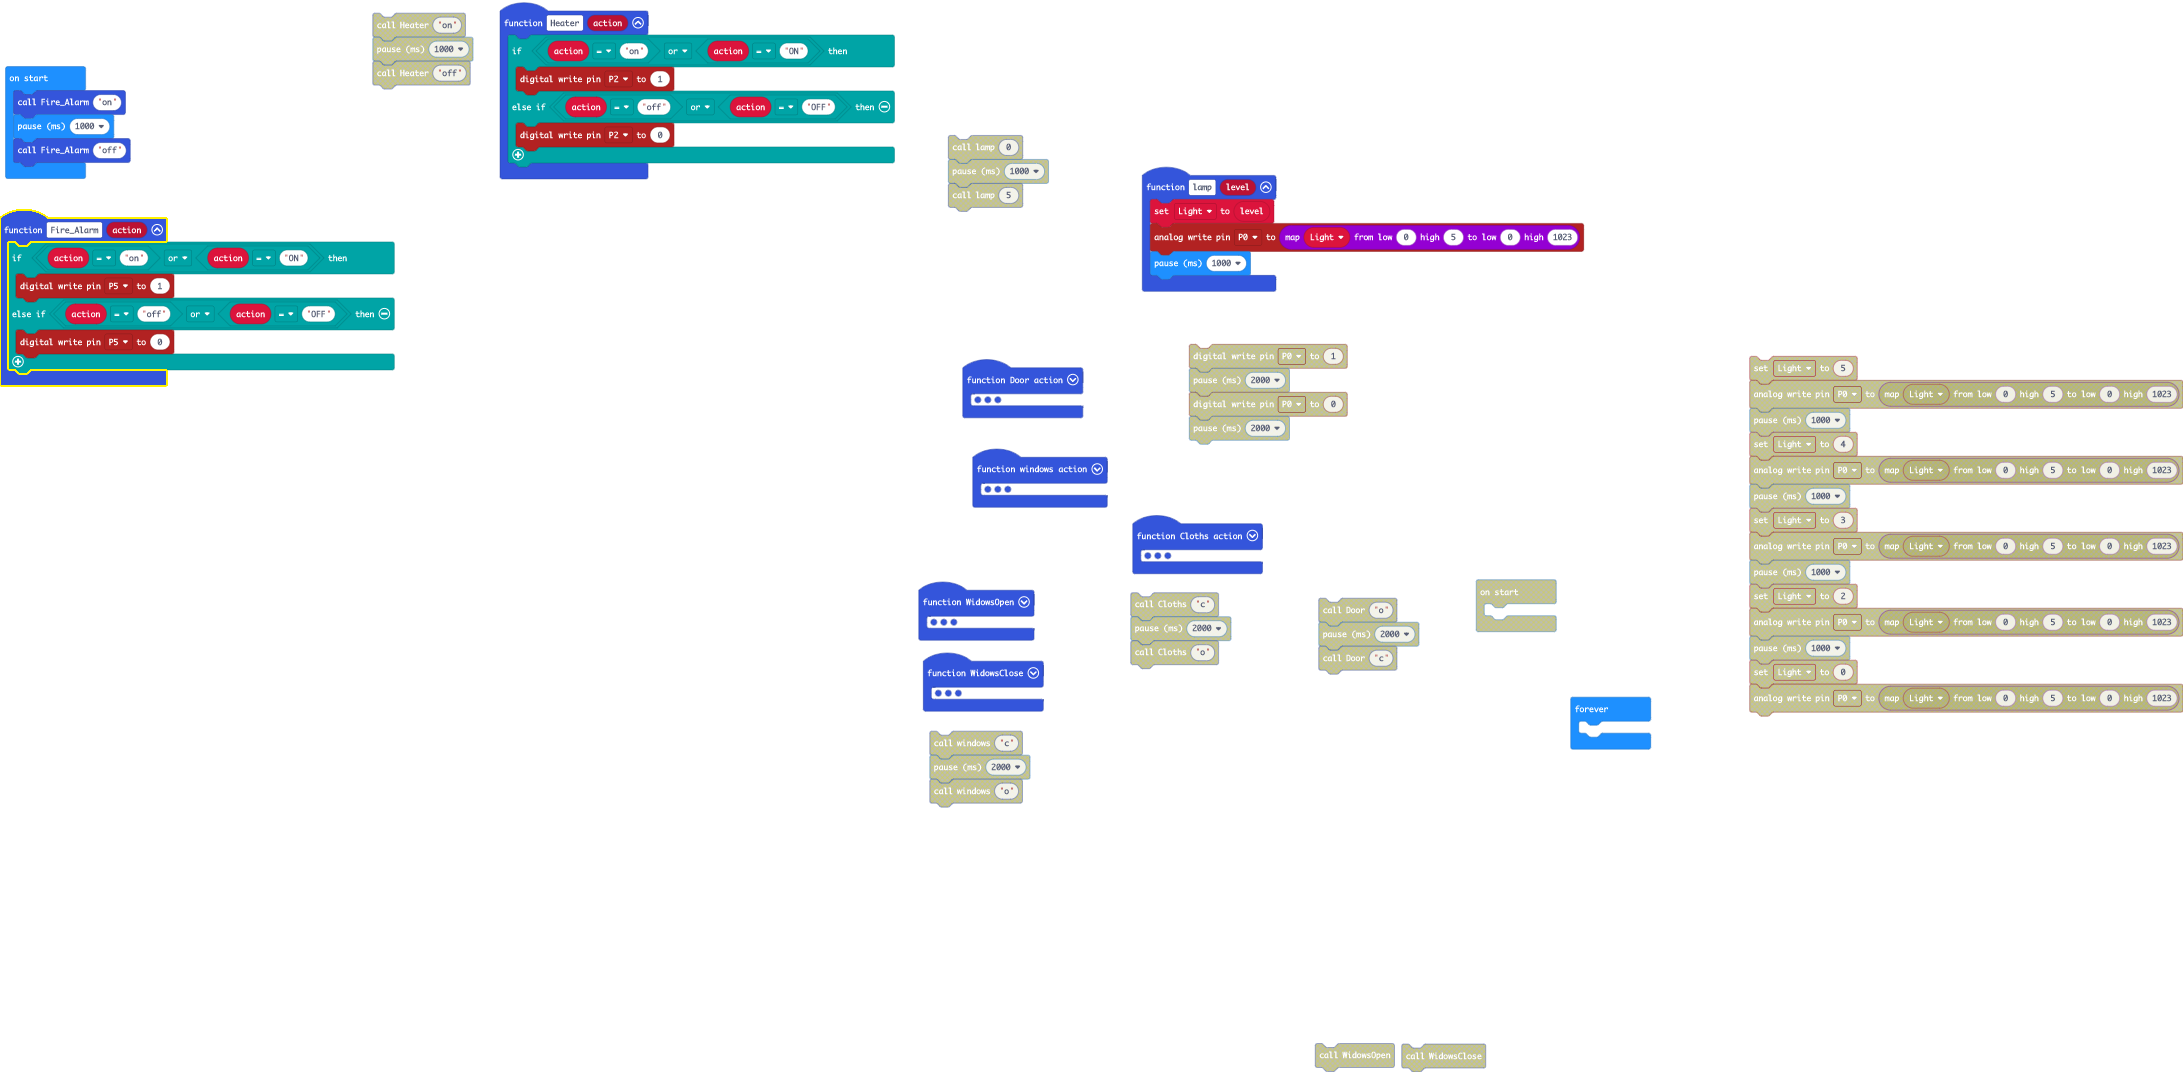
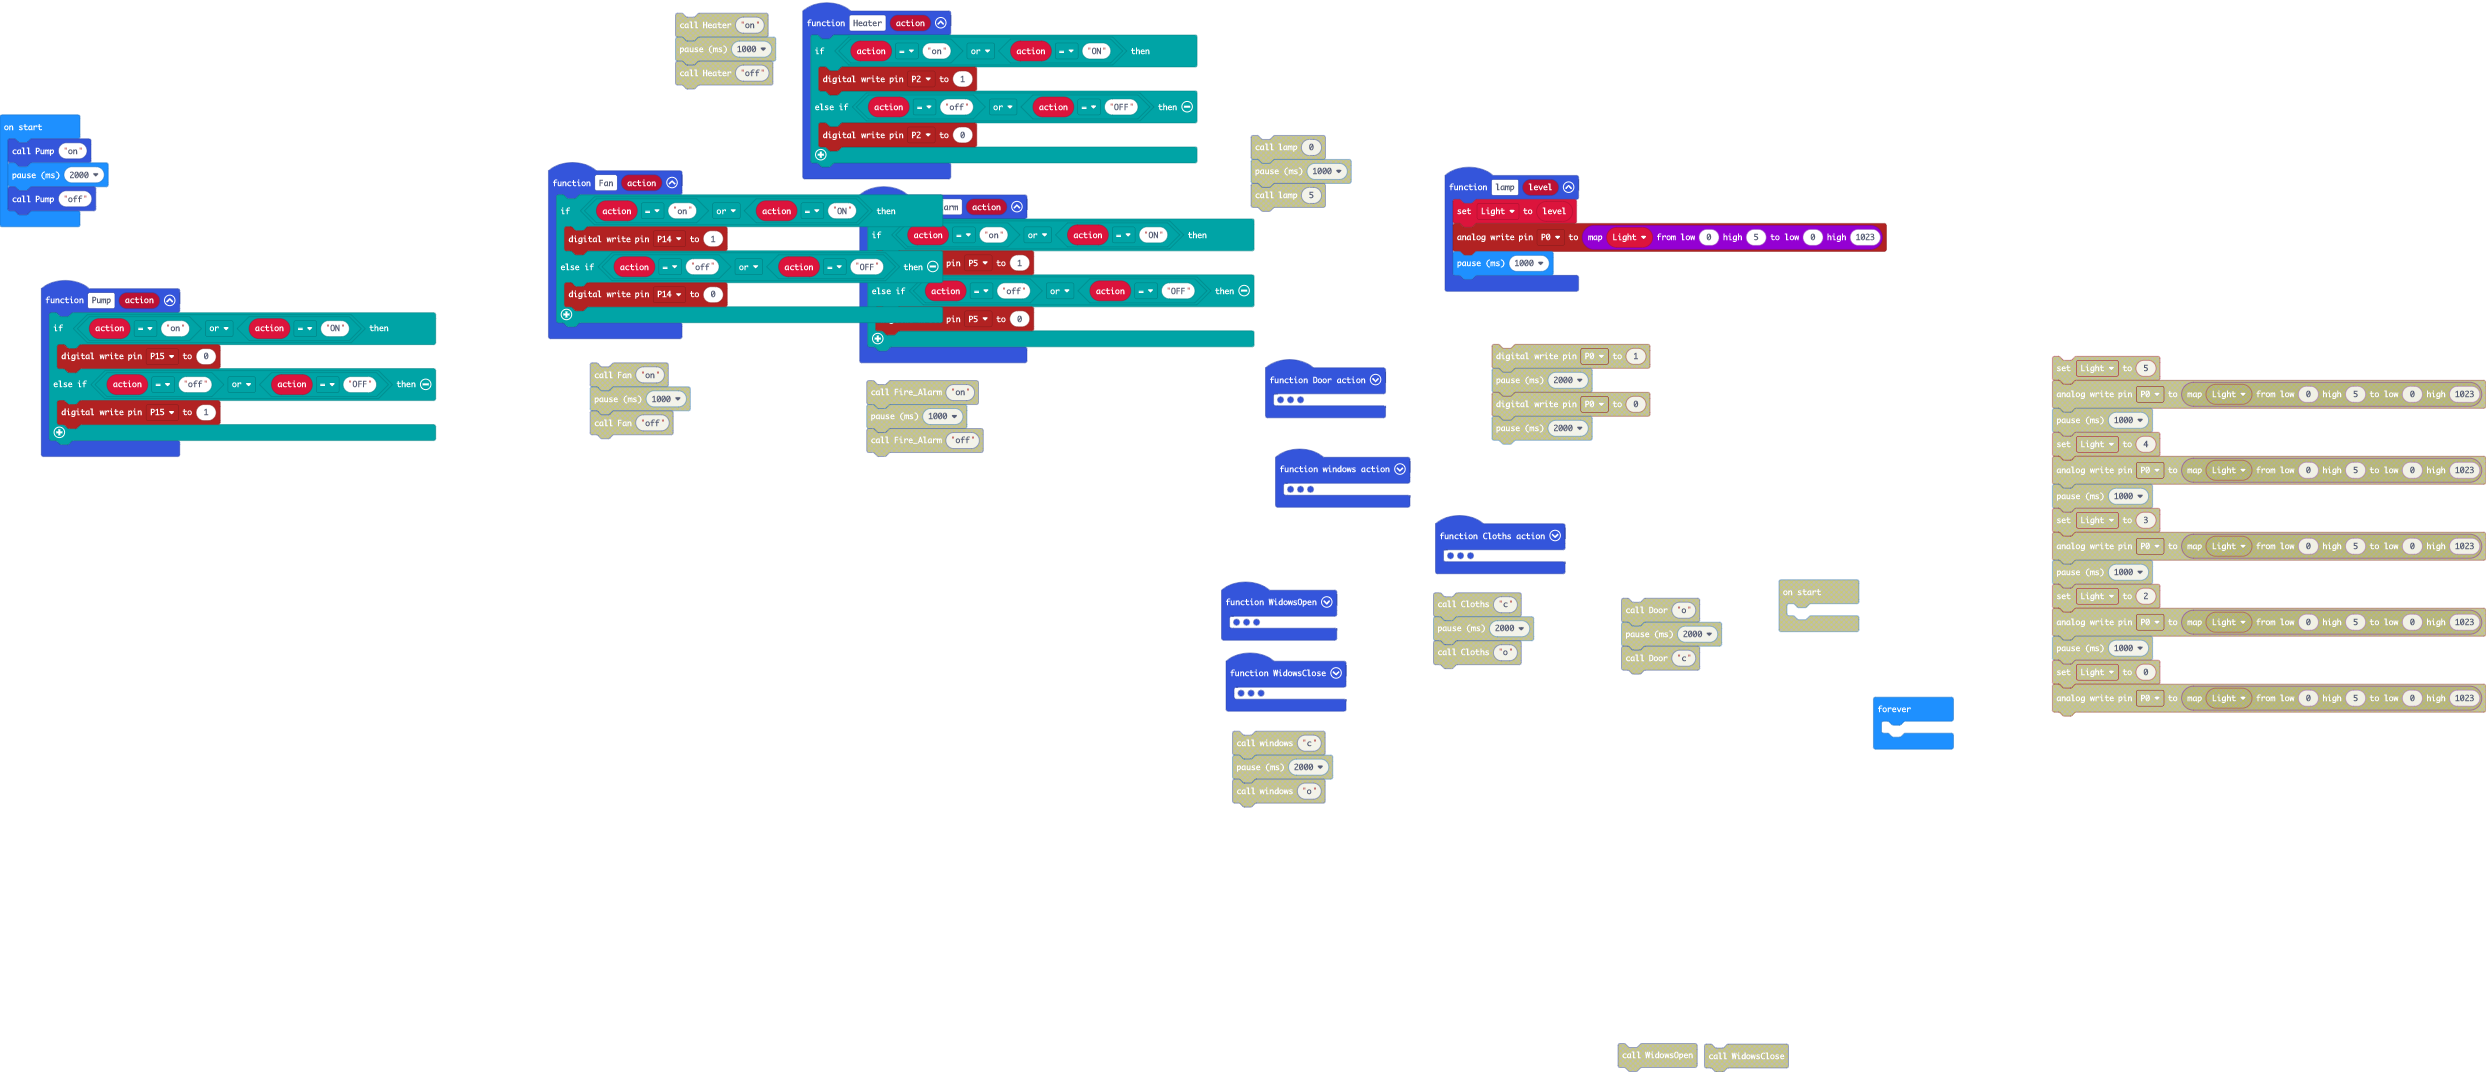
Update main.blocks, main.ts

diff --git a/main.ts b/main.ts
@@ -12,6 +12,13 @@ function Heater (action: string) {
         pins.digitalWritePin(DigitalPin.P2, 0)
     }
 }
+function Fan (action: string) {
+    if (action == "on" || action == "ON") {
+        pins.digitalWritePin(DigitalPin.P14, 1)
+    } else if (action == "off" || action == "OFF") {
+        pins.digitalWritePin(DigitalPin.P14, 0)
+    }
+}
 function Door (action: string) {
     if (action == "O" || action == "o") {
         Dge = 0
@@ -59,6 +66,13 @@ function lamp (level: number) {
     pins.analogWritePin(AnalogPin.P0, Math.map(Light, 0, 5, 0, 1023))
     basic.pause(1000)
 }
+function Pump (action: string) {
+    if (action == "on" || action == "ON") {
+        pins.digitalWritePin(DigitalPin.P15, 0)
+    } else if (action == "off" || action == "OFF") {
+        pins.digitalWritePin(DigitalPin.P15, 1)
+    }
+}
 function windows (action: string) {
     if (action == "O" || action == "o") {
         Dge = 10
@@ -86,9 +100,9 @@ function WidowsClose () {
 }
 let Light = 0
 let Dge = 0
-Fire_Alarm("on")
-basic.pause(1000)
-Fire_Alarm("off")
+Pump("on")
+basic.pause(2000)
+Pump("off")
 basic.forever(function () {
 	
 })
